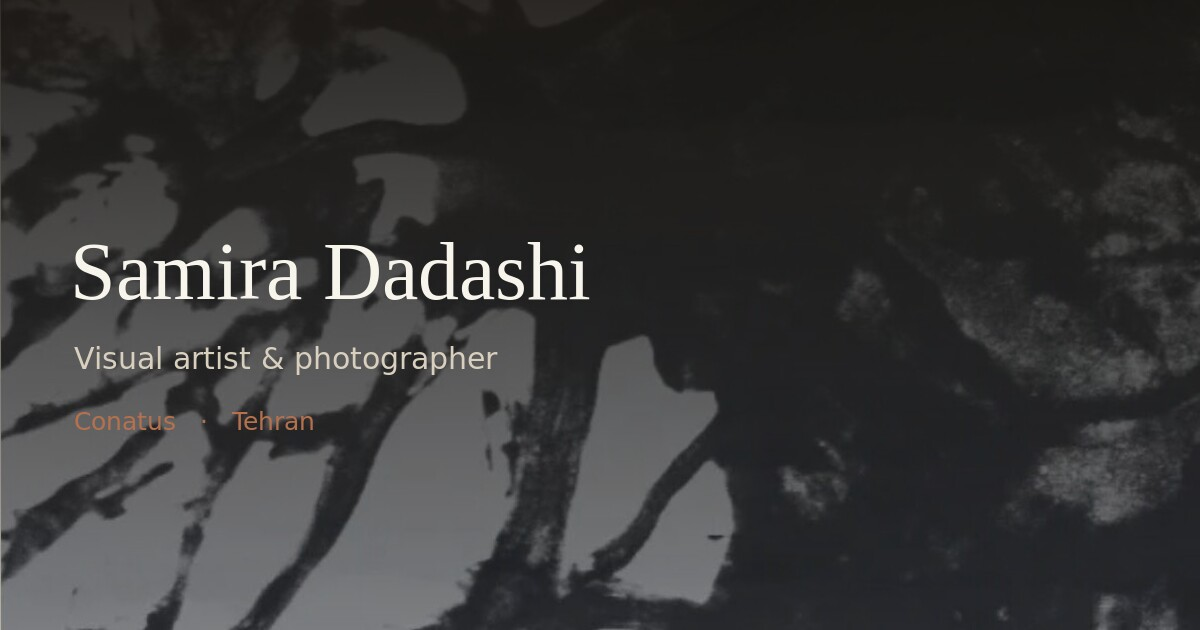
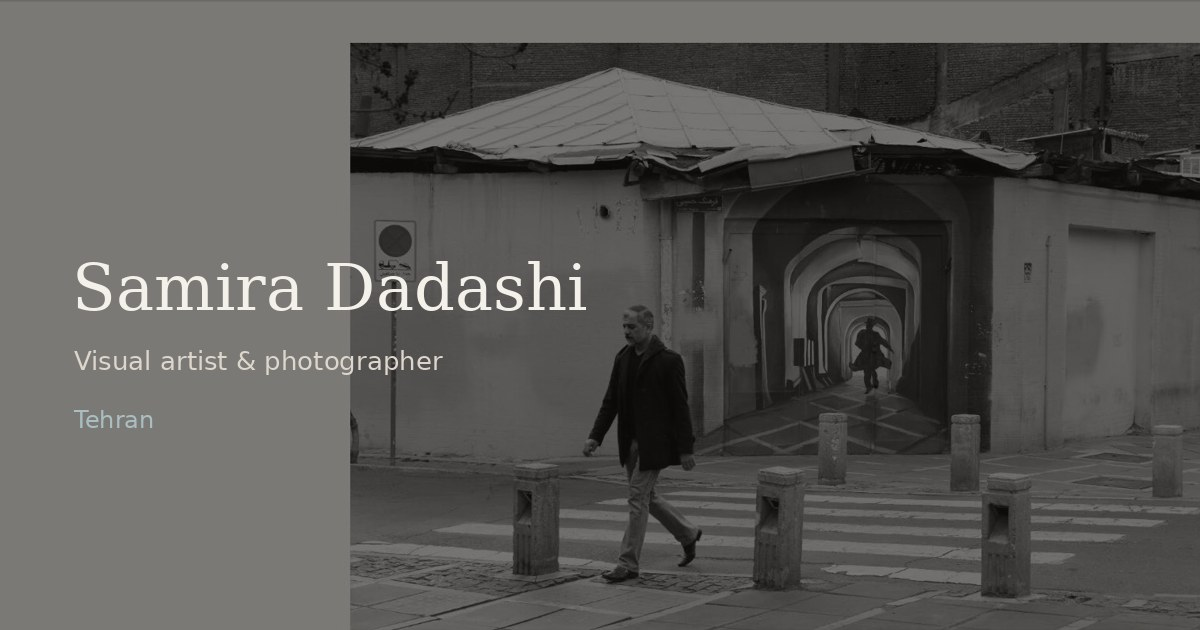
Hide unreleased Conatus project behind a release switch; documentary-led home
Claude-Session: https://claude.ai/code/session_01ENpR1M6sE7HVSd4tKoev83

diff --git a/samira-portfolio/src/lib/blur.ts b/samira-portfolio/src/lib/blur.ts
@@ -1,24 +1,6 @@
 // Auto-generated low-quality image placeholders (base64). Do not edit by hand.
 export const blur: Record<string, string> = {
[22 lines of base64/hex data omitted]

diff --git a/samira-portfolio/src/app/[locale]/page.tsx b/samira-portfolio/src/app/[locale]/page.tsx
@@ -7,6 +7,7 @@ import { blur } from "@/lib/blur";
 import { site, about } from "@/content/site";
 import { projects, featuredProject } from "@/content/projects";
 import Reveal from "@/components/Reveal";
+import { PUBLISH_CONATUS } from "@/content/visibility";
 
 export default async function Home({ params }: { params: Promise<{ locale: string }> }) {
   const { locale } = await params;
@@ -14,6 +15,9 @@ export default async function Home({ params }: { params: Promise<{ locale: strin
   const l: Locale = locale;
   const d = getDict(l);
   const f = featuredProject;
+  const fHref = href(l, `/works/${f.slug}`);
+  const featuredLabel = PUBLISH_CONATUS ? d.home.featured : d.home.selectedSeries;
+  const enterLabel = PUBLISH_CONATUS ? d.home.enterConatus : d.works.view;
 
   return (
     <>
@@ -21,7 +25,7 @@ export default async function Home({ params }: { params: Promise<{ locale: strin
       <section className="mx-auto max-w-wide px-6 sm:px-10">
         <div className="grid items-end gap-10 pb-10 pt-10 sm:pt-16 lg:grid-cols-[1fr_1.15fr] lg:gap-16">
           <Reveal className="order-2 lg:order-1">
-            <p className="eyebrow mb-7">{d.home.featured}</p>
+            <p className="eyebrow mb-7">{featuredLabel}</p>
             <h1 className="font-serif text-display-lg font-light text-ink">
               {site.name[l]}
             </h1>
@@ -29,10 +33,10 @@ export default async function Home({ params }: { params: Promise<{ locale: strin
               {d.site.role} · {site.location[l]}
             </p>
             <Link
-              href={href(l, "/works/conatus")}
+              href={fHref}
               className="group mt-9 inline-flex items-center gap-3 font-sans text-sm text-ink"
             >
-              <span className="link-quiet">{d.home.enterConatus}</span>
+              <span className="link-quiet">{enterLabel}</span>
               <span className="transition-transform duration-500 ease-quiet group-hover:translate-x-1 rtl:group-hover:-translate-x-1">
                 {l === "fa" ? "←" : "→"}
               </span>
@@ -41,7 +45,7 @@ export default async function Home({ params }: { params: Promise<{ locale: strin
 
           <Reveal delay={0.12} className="order-1 lg:order-2">
             <Link
-              href={href(l, "/works/conatus")}
+              href={fHref}
               className="group relative block overflow-hidden bg-paper-deep"
             >
               <Image
@@ -66,7 +70,7 @@ export default async function Home({ params }: { params: Promise<{ locale: strin
         </div>
       </section>
 
-      {/* ───── Featured statement ───── */}
+      {PUBLISH_CONATUS && f.statement && (
       <section className="mx-auto mt-24 max-w-wide px-6 sm:mt-32 sm:px-10">
         <div className="grid gap-10 lg:grid-cols-[0.9fr_1.4fr] lg:gap-20">
           <Reveal>
@@ -77,18 +81,20 @@ export default async function Home({ params }: { params: Promise<{ locale: strin
             <p className="eyebrow mt-4">{f.kicker[l]}</p>
           </Reveal>
           <Reveal delay={0.1} className="prose-quiet max-w-reading">
-            {f.statement![l].slice(0, 2).map((p, i) => (
+            {f.statement[l].slice(0, 2).map((p, i) => (
               <p key={i}>{p}</p>
             ))}
             <Link
-              href={href(l, "/works/conatus")}
+              href={fHref}
               className="mt-2 inline-block font-sans text-sm text-ink link-quiet"
             >
-              {d.home.enterConatus} {l === "fa" ? "←" : "→"}
+              {enterLabel} {l === "fa" ? "←" : "→"}
             </Link>
           </Reveal>
         </div>
       </section>
+
+      )}
 
       {/* ───── Selected works ───── */}
       <section className="mx-auto mt-28 max-w-wide px-6 sm:mt-40 sm:px-10">

diff --git a/samira-portfolio/src/content/site.ts b/samira-portfolio/src/content/site.ts
@@ -1,6 +1,7 @@
 import type { Localized, JournalNote } from "@/lib/types";
 import settings from "./data/settings.json";
 import journalData from "./data/journal.json";
+import { PUBLISH_CONATUS, CONATUS_NOTE_SLUGS } from "./visibility";
 
 export const site = {
   name: { en: "Samira Dadashi", fa: "سمیرا داداشی" } as Localized,
@@ -12,7 +13,10 @@ export const site = {
   url: "https://samiradadashi.com",
 };
 
-export const about = {
+/** Keep only the first `n` paragraphs while unreleased work is hidden. */
+const released = <T,>(items: T[], n: number) => (PUBLISH_CONATUS ? items : items.slice(0, n));
+
+const aboutFull = {
   portrait: {
     src: "/about/portrait-samira.jpg",
     w: 962,
@@ -54,6 +58,14 @@ export const about = {
   } as Localized<string[]>,
 };
 
+export const about = {
+  ...aboutFull,
+  biography: {
+    en: released(aboutFull.biography.en, 3),
+    fa: released(aboutFull.biography.fa, 3),
+  } as Localized<string[]>,
+};
+
 /** CV: verified entries only; curator-facing sections the artist keeps current. */
 export const cv = {
   profile: about.biography,
@@ -63,11 +75,11 @@ export const cv = {
   } as Localized<string[]>,
   projects: {
     en: [
-      "Conatus — ongoing (2025–)",
+      ...(PUBLISH_CONATUS ? ["Conatus — ongoing (2025–)"] : []),
       "Documentary & street photography (2016–2022)",
     ],
     fa: [
-      "کوناتوس — در حال انجام (۱۴۰۴–)",
+      ...(PUBLISH_CONATUS ? ["کوناتوس — در حال انجام (۱۴۰۴–)"] : []),
       "عکاسیِ مستند و خیابانی (۱۳۹۵–۱۴۰۱)",
     ],
   } as Localized<string[]>,
@@ -77,6 +89,10 @@ export const cv = {
   awards: settings.cv.awards as Localized<string[]>,
 };
 
-export const journal: JournalNote[] = (journalData.notes as unknown as JournalNote[]);
+/** Notes written about unreleased work stay hidden until it is released. */
+const hiddenNotes = new Set(CONATUS_NOTE_SLUGS);
+export const journal: JournalNote[] = (journalData.notes as unknown as JournalNote[]).filter(
+  (n) => PUBLISH_CONATUS || !hiddenNotes.has(n.slug)
+);
 
 export const getNote = (slug: string) => journal.find((n) => n.slug === slug);

diff --git a/samira-portfolio/src/lib/i18n.ts b/samira-portfolio/src/lib/i18n.ts
@@ -17,6 +17,7 @@ export const dict = {
     site: { role: "Visual artist & photographer", location: "Tehran" },
     home: {
       featured: "Current project",
+      selectedSeries: "Selected series",
       selectedWorks: "Selected works",
       enterConatus: "Enter Conatus",
       practiceTitle: "On the practice",
@@ -26,6 +27,8 @@ export const dict = {
       title: "Works",
       intro:
         "Two bodies of work, a decade apart: a documentary attention to the street, and Conatus — an ongoing inquiry into the body, persistence and the limits of the photographic image.",
+      introSolo:
+        "A documentary attention to the street: people and their surroundings, and the moment the everyday turns strange.",
       ongoing: "Ongoing",
       medium: "Medium",
       year: "Year",
@@ -103,15 +106,18 @@ export const dict = {
     site: { role: "هنرمند تجسمی و عکاس", location: "تهران" },
     home: {
       featured: "پروژهی جاری",
+      selectedSeries: "مجموعهی منتخب",
       selectedWorks: "آثار منتخب",
       enterConatus: "ورود به کوناتوس",
-      practiceTitle: "دربارهی پرَکتیس",
+      practiceTitle: "دربارهی کار",
       viewAll: "همهی آثار",
     },
     works: {
       title: "آثار",
       intro:
         "دو مجموعه با فاصلهی یک دهه: نگاهی مستند به خیابان، و کوناتوس — جستوجویی در جریان دربارهی بدن، تداوم و مرزهای تصویرِ عکاسانه.",
+      introSolo:
+        "نگاهی مستند به خیابان: انسان و پیرامونش، و لحظهای که امرِ روزمره غریب میشود.",
       ongoing: "در حال انجام",
       medium: "مدیوم",
       year: "سال",

diff --git a/samira-portfolio/src/app/[locale]/works/documentary/page.tsx b/samira-portfolio/src/app/[locale]/works/documentary/page.tsx
@@ -3,7 +3,7 @@ import { notFound } from "next/navigation";
 import type { Metadata } from "next";
 import { isLocale, type Locale, getDict } from "@/lib/i18n";
 import { href } from "@/lib/nav";
-import { getProject } from "@/content/projects";
+import { getProject, projects } from "@/content/projects";
 import Reveal from "@/components/Reveal";
 import Figure from "@/components/Figure";
 
@@ -21,6 +21,7 @@ export default async function DocumentaryPage({ params }: { params: Promise<{ lo
   const d = getDict(l);
   const p = getProject("documentary")!;
   const imgs = p.images!;
+  const next = projects.find((x) => x.slug !== "documentary");
   const faTitle = l === "fa" ? "font-fa" : "font-serif";
 
   return (
@@ -96,10 +97,12 @@ export default async function DocumentaryPage({ params }: { params: Promise<{ lo
         <Link href={href(l, "/works")} className="font-sans text-sm text-stone link-quiet">
           {l === "fa" ? "→" : "←"} {d.project.back}
         </Link>
-        <Link href={href(l, "/works/conatus")} className="group font-sans text-sm text-ink">
+        {next && (
+        <Link href={href(l, `/works/${next.slug}`)} className="group font-sans text-sm text-ink">
           <span className="eyebrow block text-end">{d.project.next}</span>
-          <span className={`${faTitle} text-xl`}>{getProject("conatus")!.title[l]} {l === "fa" ? "←" : "→"}</span>
+          <span className={`${faTitle} text-xl`}>{next.title[l]} {l === "fa" ? "←" : "→"}</span>
         </Link>
+        )}
       </div>
     </article>
   );

diff --git a/samira-portfolio/src/app/[locale]/works/conatus/page.tsx b/samira-portfolio/src/app/[locale]/works/conatus/page.tsx
@@ -8,11 +8,13 @@ import { blur } from "@/lib/blur";
 import { getProject } from "@/content/projects";
 import Reveal from "@/components/Reveal";
 import ChapterGallery from "@/components/ChapterGallery";
+import { PUBLISH_CONATUS } from "@/content/visibility";
 
 export async function generateMetadata({ params }: { params: Promise<{ locale: string }> }): Promise<Metadata> {
   const { locale } = await params;
   const l: Locale = isLocale(locale) ? locale : "en";
-  const p = getProject("conatus")!;
+  const p = getProject("conatus");
+  if (!PUBLISH_CONATUS || !p) return { title: "Not found", robots: { index: false } };
   return {
     title: `${p.title[l]} — Samira Dadashi`,
     description: p.intro[l][0],
@@ -22,7 +24,7 @@ export async function generateMetadata({ params }: { params: Promise<{ locale: s
 
 export default async function ConatusPage({ params }: { params: Promise<{ locale: string }> }) {
   const { locale } = await params;
-  if (!isLocale(locale)) notFound();
+  if (!isLocale(locale) || !PUBLISH_CONATUS) notFound();
   const l: Locale = locale;
   const d = getDict(l);
   const p = getProject("conatus")!;

diff --git a/samira-portfolio/src/content/visibility.ts b/samira-portfolio/src/content/visibility.ts
@@ -1,0 +1,18 @@
+/**
+ * Release switch for work that is still in progress.
+ *
+ * While `PUBLISH_CONATUS` is false the project does not exist anywhere on the
+ * public site: no page, no list entry, no sitemap entry, no journal note, no
+ * biography or CV line, no social-preview image and no image files.
+ *
+ * To release it: set the environment variable NEXT_PUBLIC_PUBLISH_CONATUS=true
+ * in Netlify AND move the photographs back from /private-assets/conatus to
+ * /public/works/conatus (see README, "Releasing Conatus").
+ */
+export const PUBLISH_CONATUS = process.env.NEXT_PUBLIC_PUBLISH_CONATUS === "true";
+
+/** True for any text that belongs to the unreleased project. */
+export const isConatusSlug = (slug: string) => slug === "conatus";
+
+/** Journal notes that discuss the unreleased project (hidden until release). */
+export const CONATUS_NOTE_SLUGS = ["the-will-to-persist", "illness-is-not-a-metaphor"];

diff --git a/samira-portfolio/src/content/projects.ts b/samira-portfolio/src/content/projects.ts
@@ -1,4 +1,5 @@
 import type { Project } from "@/lib/types";
+import { PUBLISH_CONATUS } from "./visibility";
 
 /**
  * Source of truth: the artist's own portfolio (Summer 1405 / 2026).
@@ -223,6 +224,10 @@ const documentary: Project = {
   ],
 };
 
-export const projects: Project[] = [conatus, documentary].sort((a, b) => a.order - b.order);
+const all: Project[] = [conatus, documentary].sort((a, b) => a.order - b.order);
+
+/** Only released projects. Unreleased work never reaches a page, list or sitemap. */
+export const projects: Project[] = all.filter((p) => PUBLISH_CONATUS || p.slug !== "conatus");
 export const getProject = (slug: string) => projects.find((p) => p.slug === slug);
-export const featuredProject = conatus;
+/** The project shown first on the home page. */
+export const featuredProject: Project = PUBLISH_CONATUS ? conatus : documentary;

diff --git a/samira-portfolio/src/app/[locale]/layout.tsx b/samira-portfolio/src/app/[locale]/layout.tsx
@@ -43,8 +43,8 @@ export async function generateMetadata({
     l === "fa" ? "سمیرا داداشی — هنرمند تجسمی و عکاس" : "Samira Dadashi — Visual Artist & Photographer";
   const description =
     l === "fa"
-      ? "پورتفولیوی سمیرا داداشی، هنرمند تجسمی و عکاسِ ایرانی. کوناتوس و آثار مستند."
-      : "Portfolio of Samira Dadashi, Iranian visual artist and photographer. Conatus and documentary work.";
+      ? "پورتفولیوی سمیرا داداشی، هنرمند تجسمی و عکاسِ ایرانی. آثار مستند و خیابانی."
+      : "Portfolio of Samira Dadashi, Iranian visual artist and photographer. Documentary and street photography.";
   return {
     title,
     description,

diff --git a/samira-portfolio/src/app/[locale]/works/page.tsx b/samira-portfolio/src/app/[locale]/works/page.tsx
@@ -7,6 +7,7 @@ import { href } from "@/lib/nav";
 import { blur } from "@/lib/blur";
 import { projects } from "@/content/projects";
 import Reveal from "@/components/Reveal";
+import { PUBLISH_CONATUS } from "@/content/visibility";
 
 export async function generateMetadata({ params }: { params: Promise<{ locale: string }> }): Promise<Metadata> {
   const { locale } = await params;
@@ -28,7 +29,7 @@ export default async function WorksPage({ params }: { params: Promise<{ locale: 
           {d.works.title}
         </h1>
         <p className="prose-quiet mt-6 max-w-reading">
-          <span className="font-serif text-stone">{d.works.intro}</span>
+          <span className="font-serif text-stone">{PUBLISH_CONATUS ? d.works.intro : d.works.introSolo}</span>
         </p>
       </Reveal>
 
